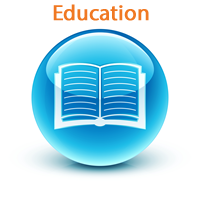
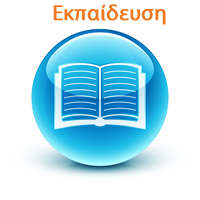
Use localstorage instead of cookies Use correct images Added initial history

Changed region(s): [[0.3, 0.0, 0.84, 0.12]]

diff --git a/Index.html b/Index.html
@@ -39,7 +39,6 @@
 	<script src="assets/libs/bootstrap.min.js"></script>
 	<script src="assets/libs/angular.min.js"></script>
 	<script src="assets/libs/angular-route.min.js"></script>
-	<script src="assets/libs/angular-cookies.min.js"></script>
 	<script src="assets/libs/angular-local-storage.js"></script>
 	<script src="assets/libs/angular-base64.js"></script>
 	<script src="assets/libs/bootbox.min.js"></script>
@@ -97,8 +96,8 @@
 							<div class="input-group">
 								<input id="search-location-input" class="form-control" type="text" placeholder="Πρόβλεψη καιρού" ng-disabled="!isHomePage">
 								<span class="input-group-btn">
-									<button id="search-location-button" class="btn btn-info" title="Show weather for specific location" ng-disabled="!isHomePage"><span class="glyphicon glyphicon-search"></span></button>
-									<button id="geo-button" class="btn btn-info" title="Show weather for current location" ng-disabled="!isHomePage"><span class="glyphicon glyphicon-screenshot"></span></button>
+									<button id="search-location-button" class="btn btn-info" title="Εμφάνιση του καιρού για συγκεκριμένη τοποθεσία" ng-disabled="!isHomePage"><span class="glyphicon glyphicon-search"></span></button>
+									<button id="geo-button" class="btn btn-info" title="Εμφάνιση καιρού για την τρέχουσα τοποθεσία" ng-disabled="!isHomePage"><span class="glyphicon glyphicon-screenshot"></span></button>
 								</span>
 							</div>
 						</div>
@@ -155,7 +154,8 @@
 		    <li ng-if="moduleVisible('Education')"><a href="#education" data-icon="info"><span class="glyphicon glyphicon-info-sign"></span>Εκπαιδευτικό υλικό</a></li>    
 		    <li ng-if="moduleVisible('Comments')"><a href="#comments" data-icon="comment"><span class="glyphicon glyphicon-blackboard"></span>Σχόλια</a></li>     
 		    <li ng-if="moduleVisible('Diary')"><a href="#diary" data-icon="calendar"><span class="glyphicon glyphicon-calendar"></span>Ημερολόγιο</a></li>   
-		    <li ng-if="moduleVisible('Medication')"><a href="#medications" data-icon="plus"><span class="glyphicon glyphicon-plus-sign"></span>Φαρμακευτική αγωγή</a></li>   
+		    <li ng-if="moduleVisible('Medication')"><a href="#medications" data-icon="plus"><span class="glyphicon glyphicon-plus-sign"></span>Φαρμακευτική αγωγή</a></li>  
+		    <li ng-if="moduleVisible('History')"><a href="#history" data-icon="heart"><span class="glyphicon glyphicon-heart"></span>ιστορία</a></li> 
 		  </ul>
 		</nav>
 		<div ng-view></div>
@@ -178,6 +178,8 @@
 	<script src="app/modules/education/educationCtrl.js"></script>
 	<script src="app/modules/questionnaires/dataService.js"></script>
 	<script src="app/modules/questionnaires/questionnairesCtrl.js"></script>
+	<script src="app/modules/history/dataService.js"></script>
+	<script src="app/modules/history/historyCtrl.js"></script>
 	<script src="assets/libs/weather.js"></script>	
 </body>
 </html>

diff --git a/app/modules/history/historyCtrl.js b/app/modules/history/historyCtrl.js
@@ -1,0 +1,101 @@
+app.controller('historyCtrl', function($scope, $rootScope, $q, historyRepository, helper, AccountService) {
+    $scope.$emit('body:class:add', "transparent");
+    $scope.patientId = $rootScope.patient ? $rootScope.patient.user.cloudRef : null;
+    $scope.token = AccountService.getToken();
+    $scope.selected = null;
+    $scope.selectedData = null;
+
+    $scope.loadBloodPressureData = function() {
+        bootbox.alert("blood pressure");
+        $scope.selected = 1;
+    }
+
+    $scope.loadWeightData = function() {
+        bootbox.alert("weight");
+        $scope.selected = 2;
+    }    
+
+    $scope.loadBloodGlucoseData = function() {
+        bootbox.alert("blood glucose");
+        $scope.selected = 3;
+    }
+
+    $scope.loadTemperatureData = function() {
+        bootbox.alert("temperature");
+        $scope.selected = 4;
+    }
+
+    $scope.loadSpirometerData = function() {
+        bootbox.alert("spirometer");
+        $scope.selected = 5;
+    }
+
+    $scope.loadExacerbationsData = function() {
+        bootbox.alert("exacerbations");
+        $scope.selected = 6;    
+    }
+
+    $scope.loadHospitalAdmissionsData = function() {
+        bootbox.alert("hospital admissions");
+        $scope.selected = 7;
+    }
+
+    $scope.loadCigarettesSmokedData = function() {
+        bootbox.alert("cigarettes smoked");
+        $scope.selected = 8;
+    }
+
+    $scope.loadMedicationAdherenceData = function() {
+        bootbox.alert("medication adherence");
+        $scope.selected = 9;
+    }
+
+    $scope.loadOedemaData = function() {
+        bootbox.alert("oedema");
+        $scope.selected = 10;
+    }
+
+    $scope.loadMoodData = function() {
+        bootbox.alert("mood");
+        $scope.selected = 11;
+    }
+
+    $scope.loadPhysicalActivitiesData = function() {
+        bootbox.alert("physical activities");
+        $scope.selected = 12;
+    }
+
+    $scope.refresh = function() {
+        var selected = $scope.selected;
+
+        switch (selected) {
+            case 1:
+                return $scope.loadBloodPressureData();
+            case 2:
+                return $scope.loadWeightData();
+            case 3:
+                return $scope.loadBloodGlucoseData();
+            case 4:
+                return $scope.loadTemperatureData();
+            case 5:
+                return $scope.loadSpirometerData();
+            case 6:
+                return $scope.loadExacerbationsData();
+            case 7:
+                return $scope.loadHospitalAdmissionsData();
+            case 8:
+                return $scope.loadCigarettesSmokedData();
+            case 9:
+                return $scope.loadMedicationAdherenceData();
+            case 10:
+                return $scope.loadOedemaData();
+            case 11:
+                return $scope.loadMoodData();
+            case 12:
+                return $scope.loadPhysicalActivitiesData();
+            default:
+                break;
+        }
+        
+    }
+});

diff --git a/app/modules/history/historyView.html b/app/modules/history/historyView.html
@@ -1,0 +1,30 @@
+<div class="row">
+  <button class="btn btn-info pull-right btn-sm refresh" ng-click="refresh()">
+    <span class="glyphicon glyphicon-refresh"></span>
+  </button>
+</div>
+
+<div class="container-fluid">
+	<div class="row">
+		<div class="col-sm-3">
+			<ul class="list-group">
+				<li class="list-group-item history-item" ng-click="loadBloodPressureData()" ng-class="{'selected-item': selected == 1}">Blood Pressure</li>
+				<li class="list-group-item history-item" ng-click="loadWeightData()" ng-class="{'selected-item': selected == 2}">Weight</li>
+				<li class="list-group-item history-item" ng-click="loadBloodGlucoseData()" ng-class="{'selected-item': selected == 3}">Blood Glucose</li>
+				<li class="list-group-item history-item" ng-click="loadTemperatureData()" ng-class="{'selected-item': selected == 4}">Temperature</li>
+				<li class="list-group-item history-item" ng-click="loadSpirometerData()" ng-class="{'selected-item': selected ==  5}">Spirometer</li>
+				<li class="list-group-item history-item" ng-click="loadExacerbationsData()" ng-class="{'selected-item': selected ==  6}">Number of execerbations</li>
+				<li class="list-group-item history-item" ng-click="loadHospitalAdmissionsData()" ng-class="{'selected-item': selected ==  7}">Number of hospital admissions</li>
+				<li class="list-group-item history-item" ng-click="loadCigarettesSmokedData()" ng-class="{'selected-item': selected ==  8}">Number of cigarettes smoked</li>
+				<li class="list-group-item history-item" ng-click="loadMedicationAdherenceData()" ng-class="{'selected-item': selected ==  9}">Medication adherence</li>
+				<li class="list-group-item history-item" ng-click="loadOedemaData()" ng-class="{'selected-item': selected ==  10}">Signs of oedema</li>
+				<li class="list-group-item history-item" ng-click="loadMoodData()" ng-class="{'selected-item': selected ==  11}">Mood</li>
+				<li class="list-group-item history-item" ng-click="loadPhysicalActivitiesData()" ng-class="{'selected-item': selected ==  12}">Physical Activity</li>
+			</ul>
+		</div>
+		<div class="col-sm-9">
+		</div>
+	</div>
+
+	<div class="loader" ng-show="loading"></div>
+</div>

diff --git a/app/reminders/reminderService.js b/app/reminders/reminderService.js
@@ -1,4 +1,4 @@
-app.factory('ReminderService', function ($rootScope, $q, $cookieStore, diaryRepository, questionnairesRepository, medicationsRepository, helper, AccountService) {
+app.factory('ReminderService', function ($rootScope, $q, localStorageService, diaryRepository, questionnairesRepository, medicationsRepository, helper, AccountService) {
     var self = this;
 
     this.interval = null;
@@ -229,7 +229,7 @@ app.factory('ReminderService', function ($rootScope, $q, $cookieStore, diaryRepo
 
     this.initRemindersInterval = function() {
         self.clearReminders();
-        var interval = $rootScope.currentUser ? $cookieStore.get('reminders-' + $rootScope.currentUser.username) : null;
+        var interval = $rootScope.currentUser ? localStorageService.get('reminders-' + $rootScope.currentUser.username) : null;
         $rootScope.reminderInterval = interval || 3600000;
     }
 
@@ -240,7 +240,7 @@ app.factory('ReminderService', function ($rootScope, $q, $cookieStore, diaryRepo
         self.clearReminders();
         self.setInterval(interval);
         $rootScope.reminderInterval = interval;
-        $cookieStore.put('reminders-' + $rootScope.currentUser.username, $rootScope.reminderInterval);
+        localStorageService.set('reminders-' + $rootScope.currentUser.username, $rootScope.reminderInterval);
     }
 
     this.clearReminders = function() {
@@ -250,13 +250,13 @@ app.factory('ReminderService', function ($rootScope, $q, $cookieStore, diaryRepo
     this.removeReminders = function() {
         self.clearReminders();
         $rootScope.reminderInterval = null;
-        $cookieStore.remove('reminders-' + $rootScope.currentUser.username);
+        localStorageService.remove('reminders-' + $rootScope.currentUser.username);
     }
 
     this.disableReminders = function() {
         self.clearReminders();
         $rootScope.reminderInterval = -1;
-        $cookieStore.put('reminders-' + $rootScope.currentUser.username, $rootScope.reminderInterval);
+        localStorageService.set('reminders-' + $rootScope.currentUser.username, $rootScope.reminderInterval);
     }
 
     this.clearInterval = function() {

diff --git a/app/home/home.html b/app/home/home.html
@@ -6,17 +6,20 @@
 		<a href="#questionnaires"><img ng-src="assets/img/questionnaire.png" id="questionnaires" class="module-icons" alt="questionnaire" data-animate="7" animate /></a>
 	</div>
 	<div class="col-sm-4 text-center" ng-if="moduleVisible('Diary')">
-		<a href="#diary"><img ng-src="assets/img/diary_home.png" id="diary" class="module-icons" alt="diary" data-animate="11" animate /></a>
+		<a href="#diary"><img ng-src="assets/img/diary_home.png" id="diary" class="module-icons" alt="diary" data-animate="9" animate /></a>
 	</div>
 </div>
 <div class="row">
-	<div class="col-sm-4 text-center" ng-if="moduleVisible('Education')">
-		<a href="#education"><img ng-src="assets/img/education.png" id="education" class="module-icons" alt="education" data-animate="9" animate /></a>
+	<div class="col-sm-3 text-center" ng-if="moduleVisible('Education')">
+		<a href="#education"><img ng-src="assets/img/education.png" id="education" class="module-icons" alt="education" data-animate="11" animate /></a>
 	</div>
-	<div class="col-sm-4 text-center" ng-if="moduleVisible('Medication')">
+	<div class="col-sm-3 text-center" ng-if="moduleVisible('Medication')">
 		<a href="#medications"><img ng-src="assets/img/medication_home.png" id="medications" class="module-icons" alt="medications" data-animate="13" animate /></a>
 	</div> 
-	<div class="col-sm-4 text-center" ng-if="moduleVisible('Comments')">
+	<div class="col-sm-3 text-center" ng-if="moduleVisible('Comments')">
 		<a href="#comments"><img ng-src="assets/img/messages.png" id="comments" class="module-icons" alt="comments" data-animate="15" animate /></a>
+	</div>
+	<div class="col-sm-3 text-center" ng-if="moduleVisible('History')">
+		<a href="#history"><img ng-src="assets/img/history.png" id="history" class="module-icons" alt="history" data-animate="17" animate /></a>
 	</div>
 </div>

diff --git a/app/login/accountService.js b/app/login/accountService.js
@@ -1,4 +1,4 @@
-app.factory('AccountService', function ($rootScope, $http, $cookieStore, helper) {
+app.factory('AccountService', function ($rootScope, $http, localStorageService, helper) {
     return {
         getAccount: function() {
             var url = helper.hubUrl + '/api/account';
@@ -14,24 +14,24 @@ app.factory('AccountService', function ($rootScope, $http, $cookieStore, helper)
         },
         storePatient: function(patient) {
             $rootScope.patient = patient;
-            $cookieStore.put('patient', patient);
+            localStorageService.set('patient', patient);
         },
         removePatient: function() {
             $rootScope.patient = null;
-            $cookieStore.remove('patient');
+            localStorageService.remove('patient');
             this.removeToken();
         },
         retrievePatient: function() {
-            return $cookieStore.get('patient');
+            return localStorageService.get('patient');
         },
         getToken: function() {
-            return $cookieStore.get('account-token');
+            return localStorageService.get('account-token');
         },
         storeToken: function(token) {
-            $cookieStore.put('account-token', token);
+            localStorageService.set('account-token', token);
         },
         removeToken: function() {
-            $cookieStore.remove('account-token');
+            localStorageService.remove('account-token');
         }
     };
 });

diff --git a/app/login/authService.js b/app/login/authService.js
@@ -1,4 +1,4 @@
-app.factory('AuthService', function loginService($rootScope, $http, $cookieStore, $location, $base64, helper, AccountService, ReminderService) {
+app.factory('AuthService', function loginService($rootScope, $http, $location, $base64, localStorageService, helper, AccountService, ReminderService) {
     return {
         login: function(credentials) {
             var data = "username=" +  encodeURIComponent(credentials.username) + "&password="
@@ -34,14 +34,14 @@ app.factory('AuthService', function loginService($rootScope, $http, $cookieStore
                 authdata: authdata,
                 token: response
             };
-            $cookieStore.put('currentUser', $rootScope.currentUser);
+            localStorageService.set('currentUser', $rootScope.currentUser);
         },
         clearCredentials: function() {
             $rootScope.currentUser = null;
-            $cookieStore.remove("currentUser");
+            localStorageService.remove("currentUser");
         },
         getCredentials: function () {
-            return $cookieStore.get('currentUser');
+            return localStorageService.get('currentUser');
         },
         hasValidToken: function () {
             var credentials = this.getCredentials(),

diff --git a/app/modules/comments/commentsCtrl.js b/app/modules/comments/commentsCtrl.js
@@ -109,7 +109,7 @@ app.controller('commentsCtrl', function($scope, $rootScope, $q, commentsReposito
     	var patientUrl = helper.baseUrl + '/Patient/' + $scope.patientId,
     		hcpUrl = helper.baseUrl + '/' + $scope.hcp.specialty + '/' + $scope.hcp.cloudRef;
 
-    	return commentsRepository.postMessage($scope.patientId, patientUrl, hcpUrl, $scope.message, $scope.token)
+    	return commentsRepository.postMessage(patientUrl, hcpUrl, $scope.message, $scope.token)
     	.then(function() {
 			helper.notify('Το σχόλιό σας έχει καταγραφεί!', 'success');
 			$scope.refresh();

diff --git a/app/app.module.js b/app/app.module.js
@@ -1,5 +1,5 @@
-var app = angular.module("welcomeApp", ['ngRoute', 'ngCookies', 'LocalStorageModule', 'ui.calendar', 'base64'])
-.run(function ($rootScope, $location, $cookieStore, AuthService, AccountService, ReminderService) {
+var app = angular.module("welcomeApp", ['ngRoute', 'LocalStorageModule', 'ui.calendar', 'base64'])
+.run(function ($rootScope, $location, AuthService, AccountService, ReminderService) {
         // keep user logged in after page refresh
         $rootScope.currentUser = AuthService.getCredentials();
         $rootScope.patient = AccountService.retrievePatient();

diff --git a/app/modules/questionnaires/questionnairesCtrl.js b/app/modules/questionnaires/questionnairesCtrl.js
@@ -62,6 +62,8 @@ app.controller('questionnairesCtrl', function($scope, $rootScope, $q, localStora
 	$scope.mergeData = function(questionnaires) {
 		var questionnaireIds = $.map(questionnaires, function(questionnaire) { return questionnaire.id; });
 		$scope.assignedQuestionnaires = $.grep($scope.staticQuestionnaires, function(questionnaire) { return questionnaireIds.indexOf(questionnaire.id) != -1 });
+		if($scope.assignedQuestionnaires.length)
+			$scope.setSelectedQuestionnaire($scope.assignedQuestionnaires[0]);
 	}
 
 	$scope.setSelectedQuestionnaire = function(questionnaire) {

diff --git a/app/modules/comments/commentsView.html b/app/modules/comments/commentsView.html
@@ -1,6 +1,8 @@
-<button class="btn btn-info pull-right btn-sm refresh" ng-click="refresh()">
-  <span class="glyphicon glyphicon-refresh"></span>
-</button>
+<div class="row">
+  <button class="btn btn-info pull-right btn-sm refresh" ng-click="refresh()">
+    <span class="glyphicon glyphicon-refresh"></span>
+  </button>
+</div>
 
 <div class="form-group">
   <select class="from-control" id="hcps-list" ng-options="o.specialty + ' ' + o.firstName + ' ' + o.lastName for o in hcps track by o.id" ng-model="hcp" class="form-control" data-style="btn-info" dropDown>

diff --git a/app/modules/education/educationView.html b/app/modules/education/educationView.html
@@ -1,6 +1,8 @@
-<button class="btn btn-info pull-right btn-sm refresh" ng-click="refresh()">
-  <span class="glyphicon glyphicon-refresh"></span>
-</button>
+<div class="row">
+  <button class="btn btn-info pull-right btn-sm refresh" ng-click="refresh()">
+    <span class="glyphicon glyphicon-refresh"></span>
+  </button>
+</div>
 
 <div class="form-group">
   <select class="from-control" id="hcps-list" ng-options="o.specialty + ' ' + o.firstName + ' ' + o.lastName for o in hcps track by o.id" ng-model="hcp" class="form-control" data-style="btn-info" dropDown>
